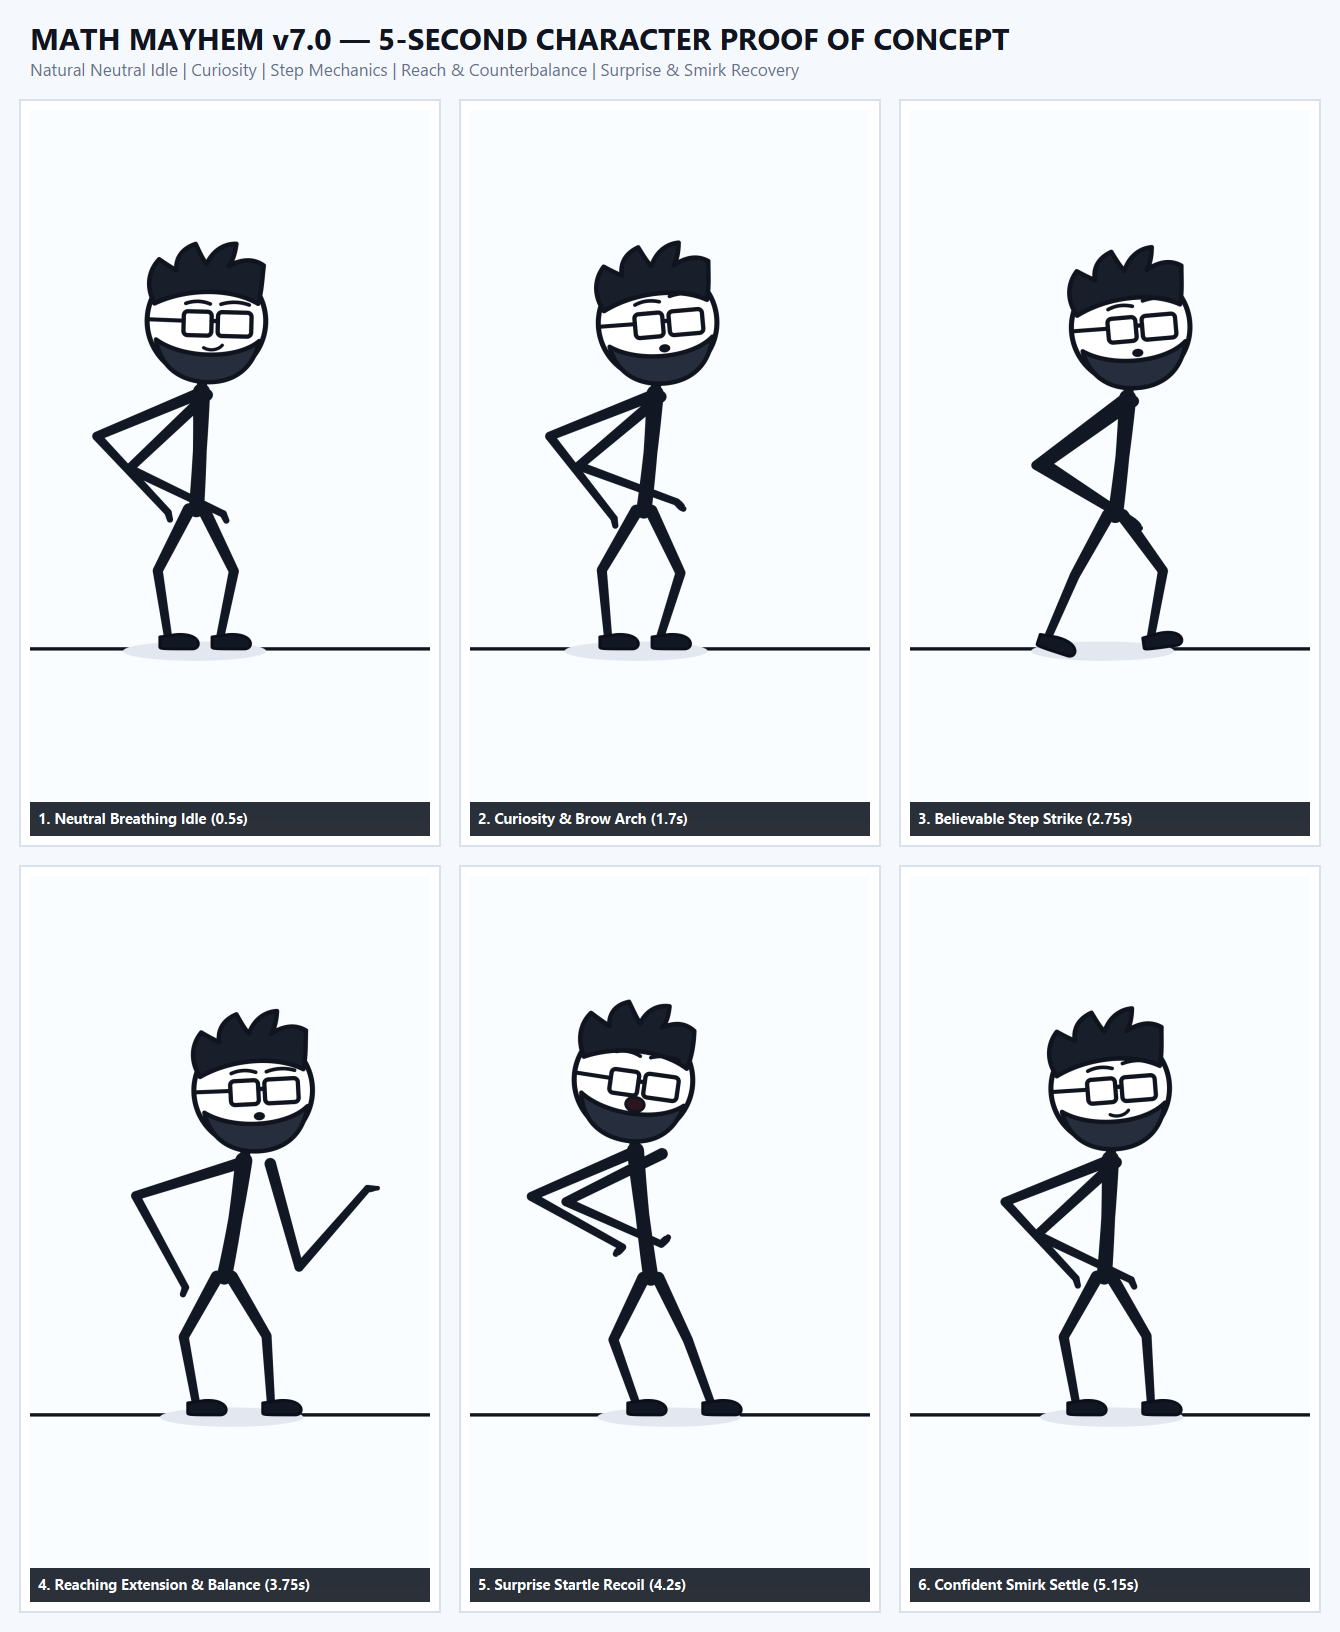
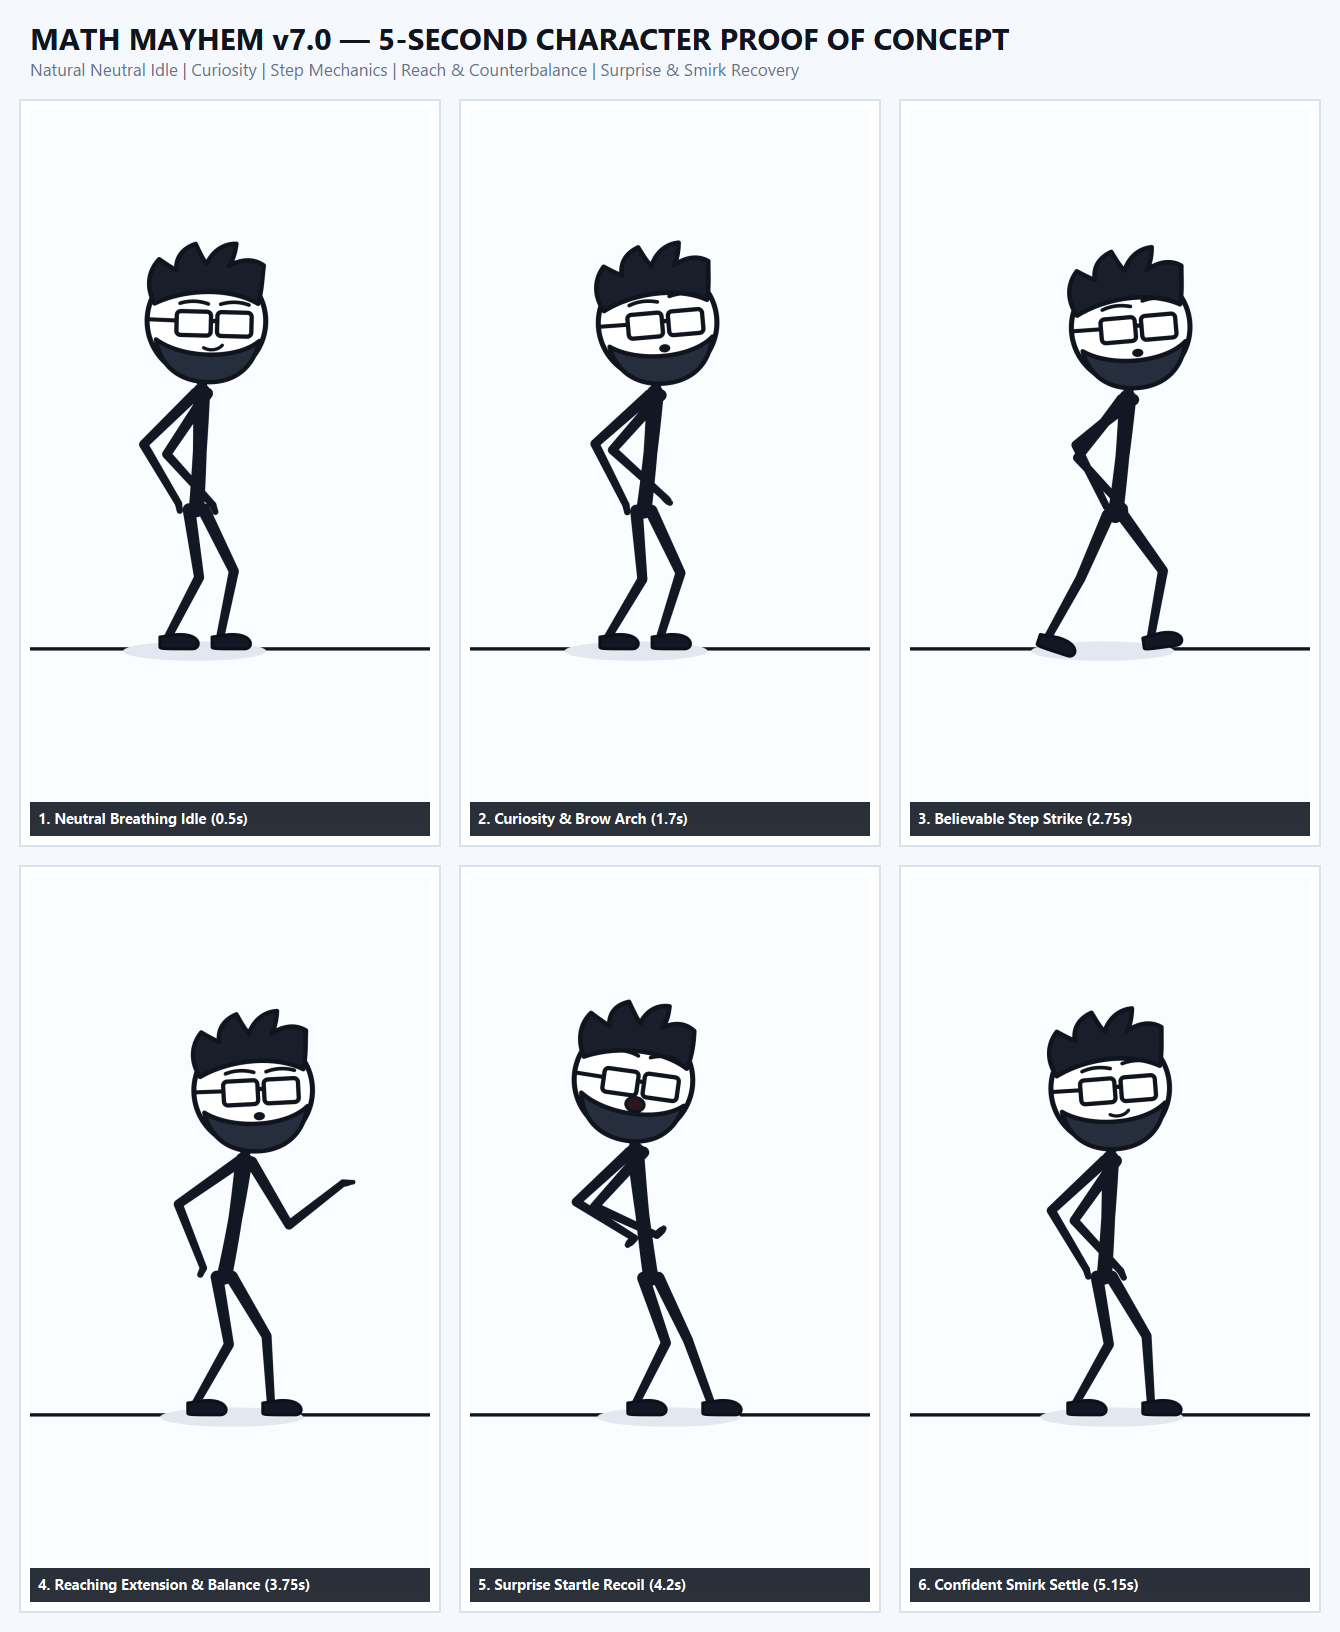
fix(rig): lock shoulders to torso, equalize eye sizes, correct leg knee bend direction, and resize arms to human proportion

diff --git a/app/anim/pose_library.py b/app/anim/pose_library.py
@@ -37,24 +37,24 @@ def create_neutral_idle_pose(scale: float = 1.22, root_x: float = 420.0, floor_y
         head_nod_px=0.0,
         hair_lag_deg=0.0,
         glasses_slip_px=0.0,
-        # Arms hanging naturally beside hips
-        left_wrist_target=(root_x - 38.0 * scale, root_y + 2.0 * scale),
-        right_wrist_target=(root_x + 36.0 * scale, root_y + 4.0 * scale),
-        left_hand_angle_deg=75.0,
-        right_hand_angle_deg=65.0,
+        # Arms hanging naturally beside hips with comfortable human proportions
+        left_wrist_target=(root_x - 24.0 * scale, root_y - 10.0 * scale),
+        right_wrist_target=(root_x + 22.0 * scale, root_y - 8.0 * scale),
+        left_hand_angle_deg=80.0,
+        right_hand_angle_deg=70.0,
         left_hand_pose="relaxed",
         right_hand_pose="relaxed",
         left_elbow_pole=1,
         right_elbow_pole=1,
         right_shoulder_protract_px=0.0,
-        # Stable grounded stance with soft knees
+        # Stable grounded stance with soft knees both bending forward naturally
         left_ankle_target=(root_x - 38.0 * scale, ankle_y),
         right_ankle_target=(root_x + 32.0 * scale, ankle_y),
         left_foot_roll_deg=0.0,
         right_foot_roll_deg=0.0,
         left_foot_planted=True,
         right_foot_planted=True,
-        left_knee_pole=1,
+        left_knee_pole=-1,
         right_knee_pole=-1,
         # Facial acting in canonical neutral symmetry
         left_brow_raise_px=0.0,
@@ -83,11 +83,13 @@ def create_curiosity_pose(base: RigPose) -> RigPose:
     p.brow_slant_deg = 7.0
     p.mouth_state = "curious_o"
     # Hands tense with interest
-    p.right_wrist_target = (p.root_x + 44.0 * s, p.root_y - 12.0 * s)
+    p.right_wrist_target = (p.root_x + 26.0 * s, p.root_y - 20.0 * s)
     p.right_hand_angle_deg = 45.0
     p.right_hand_pose = "reach_open"
-    p.left_wrist_target = (p.root_x - 40.0 * s, p.root_y + 10.0 * s)
+    p.left_wrist_target = (p.root_x - 24.0 * s, p.root_y - 8.0 * s)
     p.left_hand_angle_deg = 80.0
+    p.left_knee_pole = -1
+    p.right_knee_pole = -1
     return p
 
 
@@ -131,8 +133,10 @@ def create_step_contact_pose(base: RigPose, stride_px: float = 64.0) -> RigPose:
     p.left_foot_roll_deg = 18.0
     p.left_foot_planted = True
     # Arms swing in natural walking opposition (left arm forward, right arm back)
-    p.left_wrist_target = (p.root_x + 12.0 * s, p.root_y + 8.0 * s)
-    p.right_wrist_target = (p.root_x + 22.0 * s, p.root_y + 12.0 * s)
+    p.left_wrist_target = (p.root_x + 10.0 * s, p.root_y - 6.0 * s)
+    p.right_wrist_target = (p.root_x - 14.0 * s, p.root_y - 8.0 * s)
+    p.left_knee_pole = -1
+    p.right_knee_pole = -1
     return p
 
 
@@ -146,11 +150,13 @@ def create_reach_extend_pose(base: RigPose, reach_target: Point) -> RigPose:
     s = p.scale
     p.torso_lean_deg = 9.5
     p.spine_arch_deg = 7.5
-    p.right_shoulder_protract_px = 28.0
+    p.right_shoulder_protract_px = 12.0
     p.head_tilt_deg = -3.0
     p.head_nod_px = -2.0
+    p.left_knee_pole = -1
+    p.right_knee_pole = -1
 
-    # Right arm reaches for target
+    # Right arm reaches for target with proportional length
     hand_len = 16.5 * s
     theta = math.atan2(reach_target[1] - (p.root_y - 120.0 * s), reach_target[0] - p.root_x)
     p.right_wrist_target = (
@@ -161,8 +167,8 @@ def create_reach_extend_pose(base: RigPose, reach_target: Point) -> RigPose:
     p.right_hand_pose = "point"
 
     # Free left arm swings back in counter-balance
-    p.left_wrist_target = (p.root_x - 52.0 * s, p.root_y + 14.0 * s)
-    p.left_hand_angle_deg = 110.0
+    p.left_wrist_target = (p.root_x - 28.0 * s, p.root_y - 12.0 * s)
+    p.left_hand_angle_deg = 115.0
     p.left_hand_pose = "relaxed"
     p.mouth_state = "curious_o"
     return p
@@ -185,16 +191,18 @@ def create_surprise_recoil_pose(base: RigPose) -> RigPose:
     p.head_nod_px = -6.0  # Chin pulled up
     p.hair_lag_deg = -16.0  # Hair whips back
     p.glasses_slip_px = 4.5  # Glasses slip down slightly
+    p.left_knee_pole = -1
+    p.right_knee_pole = -1
     # Both brows shoot straight up
     p.left_brow_raise_px = 12.0
     p.right_brow_raise_px = 12.0
     p.brow_slant_deg = -8.0
     p.mouth_state = "open_gasp"
     # Hands fling up and back defensively
-    p.right_wrist_target = (p.root_x + 18.0 * s, p.root_y - 36.0 * s)
+    p.right_wrist_target = (p.root_x + 12.0 * s, p.root_y - 48.0 * s)
     p.right_hand_angle_deg = -45.0
     p.right_hand_pose = "reach_open"
-    p.left_wrist_target = (p.root_x - 34.0 * s, p.root_y - 32.0 * s)
+    p.left_wrist_target = (p.root_x - 18.0 * s, p.root_y - 44.0 * s)
     p.left_hand_angle_deg = 135.0
     p.left_hand_pose = "reach_open"
     return p
@@ -215,14 +223,16 @@ def create_satisfied_smirk_pose(base: RigPose) -> RigPose:
     p.head_nod_px = -1.5
     p.glasses_slip_px = 0.0
     p.hair_lag_deg = 0.0
+    p.left_knee_pole = -1
+    p.right_knee_pole = -1
     p.left_brow_raise_px = 2.0
     p.right_brow_raise_px = 7.5
     p.brow_slant_deg = 5.0
     p.mouth_state = "smirk"
-    p.right_wrist_target = (p.root_x + 36.0 * s, p.root_y + 4.0 * s)
+    p.right_wrist_target = (p.root_x + 22.0 * s, p.root_y - 8.0 * s)
     p.right_hand_angle_deg = 65.0
     p.right_hand_pose = "relaxed"
-    p.left_wrist_target = (p.root_x - 38.0 * s, p.root_y + 2.0 * s)
+    p.left_wrist_target = (p.root_x - 24.0 * s, p.root_y - 10.0 * s)
     p.left_hand_angle_deg = 75.0
     p.left_hand_pose = "relaxed"
     return p

diff --git a/app/cairo_character_rig.py b/app/cairo_character_rig.py
@@ -44,8 +44,8 @@ class OptionCCharacterSpec:
     torso_length: float = 158.0
     hip_half_width: float = 13.0
     shoulder_half_width: float = 10.0
-    upper_arm_length: float = 144.0
-    forearm_length: float = 140.0
+    upper_arm_length: float = 98.0
+    forearm_length: float = 92.0
     thigh_length: float = 92.0
     shin_length: float = 90.0
     ankle_height: float = 16.0
@@ -119,7 +119,7 @@ class CairoRigState:
     right_hand_pose: str = "relaxed"
     left_elbow_bend_dir: int = 1
     right_elbow_bend_dir: int = 1
-    left_knee_bend_dir: int = 1
+    left_knee_bend_dir: int = -1
     right_knee_bend_dir: int = -1
 
     # Silent facial acting channels (zero floating symbols)
@@ -263,9 +263,9 @@ def solve_cairo_anatomy(spec: OptionCCharacterSpec, state: CairoRigState) -> Sol
 
     left_hip: Point = (pelvis[0] - hip_dx, pelvis[1])
     right_hip: Point = (pelvis[0] + hip_dx, pelvis[1])
-    protract_dx = max(-18.0, min(36.0, state.right_shoulder_protract_px)) * s * state.facing
-    left_shoulder: Point = (shoulder_center[0] - sh_dx, shoulder_center[1] + 4.0 * s)
-    right_shoulder: Point = (shoulder_center[0] + sh_dx + protract_dx, shoulder_center[1] + 4.0 * s)
+    protract_dx = max(-4.0, min(8.0, state.right_shoulder_protract_px * 0.25)) * s * state.facing
+    left_shoulder: Point = (shoulder_center[0] - sh_dx, shoulder_center[1] + 2.0 * s)
+    right_shoulder: Point = (shoulder_center[0] + sh_dx + protract_dx, shoulder_center[1] + 2.0 * s)
 
     # Neck & Head Center
     neck_rad = lean_rad + math.radians(state.spine_arch_deg * 0.25 * state.facing)
@@ -620,6 +620,16 @@ def draw_option_c_character(
         leg_w[1],
         leg_w[2],
     )
+    # 3b. Solid Shoulder Girdle / Clavicle Girth (locks arms 100% firmly to torso at the top)
+    _draw_articulated_limb(
+        ctx,
+        anat.left_shoulder,
+        anat.shoulder_center,
+        anat.right_shoulder,
+        arm_w[0],
+        spine_w[0] * 0.90,
+        arm_w[0],
+    )
 
     # 4. Front Leg
     _draw_articulated_limb(ctx, anat.right_hip, anat.right_knee, anat.right_ankle, *leg_w)
@@ -773,21 +783,13 @@ def draw_option_c_character(
     bridge_gap = spec.glasses_bridge_gap * s
     lens_y = -head_r * 0.16 + nod_y * 0.55 + state.glasses_slip_px * s
 
-    # Perspective yaw transformation: in neutral (yaw=0), left_w == right_w == canonical_w
+    # Canonical blank rectangular glasses: Left and Right lenses are ALWAYS 100% equal in width & height
     yaw_factor = state.yaw_factor
-    abs_yaw = abs(yaw_factor)
-    if abs_yaw < 0.04:
-        left_w = canonical_w
-        right_w = canonical_w
-    elif yaw_factor > 0:
-        left_w = canonical_w * max(0.45, 1.0 - abs_yaw * 0.85)
-        right_w = canonical_w * (1.0 - abs_yaw * 0.10)
-    else:
-        left_w = canonical_w * (1.0 - abs_yaw * 0.10)
-        right_w = canonical_w * max(0.45, 1.0 - abs_yaw * 0.85)
+    left_w = canonical_w
+    right_w = canonical_w
 
-    lx = yaw_px * 0.65 - bridge_gap * 0.5 - left_w
-    rx = yaw_px * 0.65 + bridge_gap * 0.5
+    lx = yaw_px * 0.60 - bridge_gap * 0.5 - left_w
+    rx = yaw_px * 0.60 + bridge_gap * 0.5
 
     # Temple arms (both sides visible in front view; back temple visible in 3/4 and side views)
     ctx.new_path()

diff --git a/app/anim/scene_config.py b/app/anim/scene_config.py
@@ -19,7 +19,7 @@ Box = Tuple[float, float, float, float]
 class CharacterConfig:
     """Authoritative physical dimensions and kinematic limits for the approved character."""
     scale: float = 1.22
-    root_x: float = 430.0
+    root_x: float = 450.0
     root_y: float = 1294.0
     floor_y: float = 1520.0
 
@@ -29,8 +29,8 @@ class CharacterConfig:
     torso_length: float = 158.0
     shoulder_half_width: float = 10.0
     hip_half_width: float = 13.0
-    upper_arm_length: float = 144.0
-    forearm_length: float = 140.0
+    upper_arm_length: float = 98.0
+    forearm_length: float = 92.0
     thigh_length: float = 92.0
     shin_length: float = 90.0
     ankle_height: float = 16.0
@@ -72,8 +72,8 @@ class CalculatorConfig:
     # Staging position in World Space
     # Resized to 220px wide by 390px tall, positioned so buttons sit comfortably
     # in front of character's chest/pelvis height (y=1000..1360).
-    pos_x: float = 580.0
-    pos_y: float = 960.0
+    pos_x: float = 540.0
+    pos_y: float = 920.0
     width: float = 220.0
     height: float = 390.0
 
@@ -153,11 +153,12 @@ class SceneConfig:
         assert self.calculator.width > 0 and self.calculator.height > 0, "Invalid calculator size"
 
         # Reachability verification:
-        # Check that all buttons can be reached from a character standing posture
-        char_sh_x = self.character.root_x + self.character.shoulder_half_width * self.character.scale + 30.0
+        # Check that all buttons can be reached with natural reaching posture and hand tip
+        char_sh_x = self.character.root_x + 55.0
         char_sh_y = self.character.root_y - (self.character.torso_length * 0.85) * self.character.scale
 
-        max_reach = self.character.max_arm_reach * 0.96  # Allow comfortable 4% elbow bend margin
+        hand_len = 16.5 * self.character.scale
+        max_reach = self.character.max_arm_reach + hand_len
 
         for key, btn in self.calculator.buttons.items():
             bx, by = self.calculator.get_button_world_pos(key)

diff --git a/tests/test_v4_overhaul.py b/tests/test_v4_overhaul.py
@@ -26,9 +26,9 @@ def test_unified_scene_config_validation():
     calc = SCENE_CONFIG.calculator
     char = SCENE_CONFIG.character
 
-    char_sh_x = char.root_x + char.shoulder_half_width * char.scale + 30.0
+    char_sh_x = char.root_x + 55.0
     char_sh_y = char.root_y - (char.torso_length * 0.85) * char.scale
-    max_reach = char.max_arm_reach * 0.96
+    max_reach = char.max_arm_reach + 16.5 * char.scale
 
     for k in calc.buttons:
         bx, by = calc.get_button_world_pos(k)
@@ -39,8 +39,8 @@ def test_unified_scene_config_validation():
 def test_two_bone_ik_strict_bone_length_invariance():
     """Verify that 2-bone IK strictly preserves bone segment lengths with zero telescoping."""
     root = (440.0, 1120.0)
-    len1 = 175.68  # 144.0 * 1.22
-    len2 = 170.80  # 140.0 * 1.22
+    len1 = 119.56  # 98.0 * 1.22
+    len2 = 112.24  # 92.0 * 1.22
 
     # Test reaching across a variety of targets inside workspace
     test_targets = [

diff --git a/app/anim/render_poc_demo.py b/app/anim/render_poc_demo.py
@@ -73,8 +73,8 @@ def build_poc_timeline(scale: float = 1.22, root_x: float = 400.0, floor_y: floa
     p_step_planted.left_foot_planted = True
     p_step_planted.torso_lean_deg = 4.0
 
-    # Reach pose targeting unseen object at (720.0, 1150.0)
-    reach_target = (720.0, 1150.0)
+    # Reach pose targeting unseen object at (680.0, 1140.0)
+    reach_target = (680.0, 1140.0)
     p_reach_anticipate = create_neutral_idle_pose(scale=scale, root_x=p_step_planted.root_x, floor_y=floor_y)
     p_reach_anticipate.right_ankle_target = p_step_planted.right_ankle_target
     p_reach_anticipate.root_x -= 8.0 * scale

diff --git a/app/anim/rig.py b/app/anim/rig.py
@@ -79,7 +79,7 @@ class RigPose:
     right_foot_roll_deg: float = 0.0
     left_foot_planted: bool = True
     right_foot_planted: bool = True
-    left_knee_pole: int = 1
+    left_knee_pole: int = -1
     right_knee_pole: int = -1
 
     # Facial acting (100% silent, on-model)
